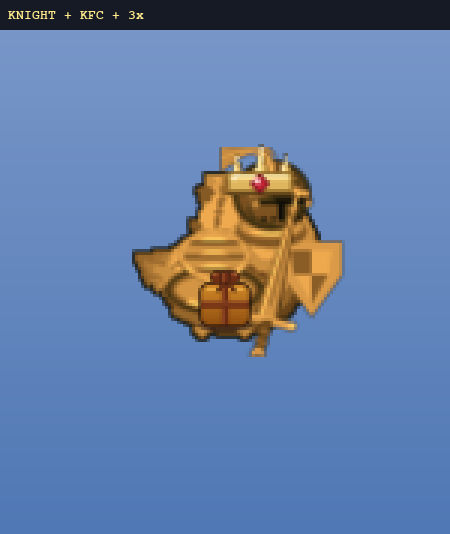
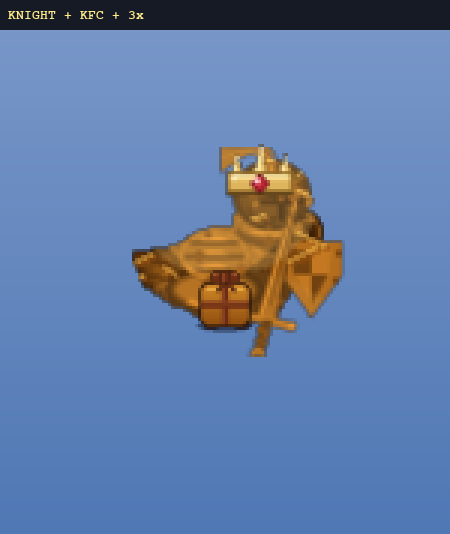
Fried knight: real deep-fry (crispy palette + texture), not a flat gold tint
The duotone _fry_recolor only recolored; it read as a gold statue. Replace it with
_deep_fry, which runs the regular STEEL knight through the SAME recipe as the fried
parrot (parrot._build_fried_frame): recolor luminance onto the crispy batter ramp
(_CRISPY_GOLD mult + warm floor), then add fried TEXTURE clamped to the silhouette
-- dark crust blotches, fine crispy spots, crackle lines (dark valley + light
ridge) -- plus a light golden grease sheen. Reuses _recolor/_sheen/_amask and the
parrot _CRISPY_* palette; fixed rng seed keeps texture stable across wing frames.
Now helm, shield, sword, armour and body all read battered-crispy. Flows into the
knight+kfc+3x crown stack.

https://claude.ai/code/session_0198wUfDSqXDZqGjdP4sx98r

Changed region(s): [[0.28, 0.2996, 0.7778, 0.6891]]

diff --git a/game/knight_skin.py b/game/knight_skin.py
@@ -11,9 +11,18 @@ the three reads stay identical.
 Built lazily and cached by `parrot._get_knight_frames()`.
 """
 import math
+import random
 import pygame
 
 from game import parrot
+
+# Fried-chicken palette borrowed from the original fried parrot
+# (parrot._build_fried_frame) so the FRIED KNIGHT deep-fries with the exact same
+# crispy tones + texture recipe, just on the armoured base.
+_CRISPY_GOLD = parrot._CRISPY_GOLD
+_CRISPY_DARK = parrot._CRISPY_DARK
+_CRISPY_LIGHT = parrot._CRISPY_LIGHT
+_CRISPY_SPOT = parrot._CRISPY_SPOT
 
 # Steel + heraldry palette (shared across helm / breastplate / shield).
 OL = (24, 28, 38); D = (70, 78, 96); MID = (146, 156, 178); HI = (238, 244, 255)
@@ -251,26 +260,40 @@ def build_knight_frames():
     return [_build_knight_frame(f) for f in parrot._get_frames()]
 
 
-def _fry_recolor(f):
-    """Re-skin a whole frame as fried chicken: collapse it to luminance, then
-    map that onto a golden-brown duotone (gold MULTIPLY for the hue + a warm
-    ADDITIVE floor so the darkest pixels read crispy-brown, not black). Applied
-    to the ENTIRE knight so helm, shield, sword and armour all go fried-golden,
-    not just the bird's body."""
-    g = pygame.transform.grayscale(f)                       # luminance, keeps alpha
-    g.fill((255, 196, 104), special_flags=pygame.BLEND_RGB_MULT)
-    o = pygame.Surface(g.get_size(), pygame.SRCALPHA)
-    o.fill((54, 28, 4, 255))
-    o.blit(g, (0, 0), special_flags=pygame.BLEND_RGBA_MIN)  # clamp to silhouette
-    g.blit(o, (0, 0), special_flags=pygame.BLEND_RGB_ADD)
-    return g
+def _deep_fry(frame):
+    """Put a whole knight frame through the SAME deep-fry the fried parrot gets
+    (parrot._build_fried_frame): recolor its luminance onto the crispy batter
+    ramp, then add fried TEXTURE — scattered crispy spots, crackle lines (dark
+    valley + light ridge = raised batter) and a golden grease sheen — all clamped
+    to the silhouette. So helm, shield, sword, armour and body read battered-
+    crispy, not merely gold-tinted. A fixed rng seed keeps the texture identical
+    across the 4 wing frames (the parrot's spots/crackle are likewise fixed)."""
+    out = _recolor(frame, _CRISPY_GOLD, add=(44, 20, 2))   # rich golden-brown batter
+    w, h = out.get_size()
+    tex = pygame.Surface((w, h), pygame.SRCALPHA)
+    rng = random.Random(0x5C0FFEE)
+    for _ in range(12):                                    # dark crispy crust blotches
+        pygame.draw.circle(tex, _CRISPY_DARK,
+                           (rng.randint(0, w - 1), rng.randint(0, h - 1)), rng.randint(2, 3))
+    for _ in range(66):                                    # fine crispy spots
+        pygame.draw.circle(tex, _CRISPY_SPOT,
+                           (rng.randint(0, w - 1), rng.randint(0, h - 1)), rng.randint(1, 2))
+    for _ in range(24):                                    # crackle: dark valley + light ridge
+        x1, y1 = rng.randint(2, w - 9), rng.randint(2, h - 9)
+        dx, dy = rng.randint(4, 9), rng.randint(-4, 4)
+        pygame.draw.line(tex, _CRISPY_DARK, (x1, y1), (x1 + dx, y1 + dy), 1)
+        pygame.draw.line(tex, _CRISPY_LIGHT, (x1 - 1, y1 - 1), (x1 + dx - 1, y1 + dy - 1), 1)
+    tex.blit(_amask(out), (0, 0), special_flags=pygame.BLEND_RGBA_MIN)
+    out.blit(tex, (0, 0))
+    _sheen(out, (255, 225, 145), (235, 180, 90), top_a=52, bot_a=34)
+    return out
 
 
 def build_knight_kfc_frames():
-    """THE FRIED KNIGHT — the WHOLE suit (helm, shield, sword, armour, body)
-    re-skinned as crispy fried-golden via _fry_recolor, not just the bird."""
-    return [_fry_recolor(_build_knight_frame(f, body_recolor=False))
-            for f in parrot._get_kfc_frames()]
+    """THE FRIED KNIGHT — the regular STEEL knight run through the fried-parrot
+    deep-fry (crispy batter palette + crackle/spots/grease texture), so the whole
+    suit reads battered-crispy."""
+    return [_deep_fry(f) for f in build_knight_frames()]
 
 
 def build_knight_ghost_frames():
